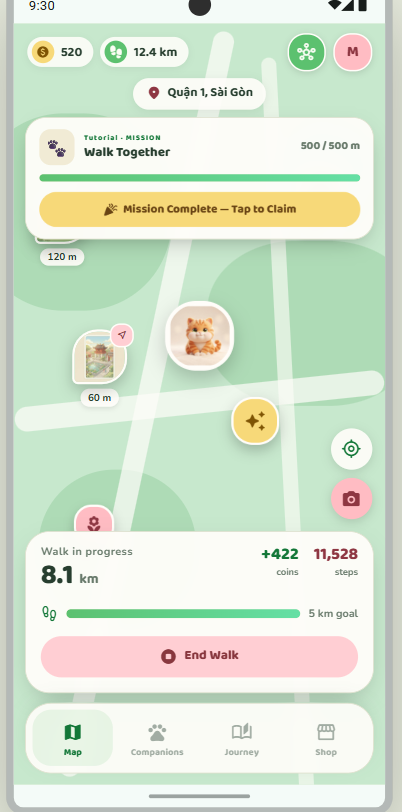
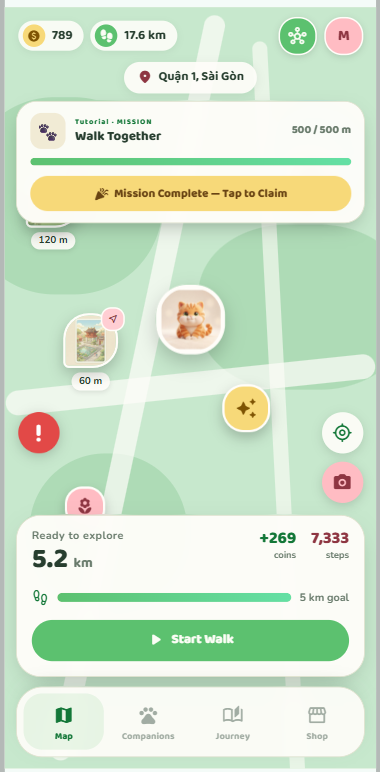
fix: session-only walk metrics, mission claim toast, editable account name, onboarding keyboard inset
- Walk control card now always starts idle at 0.0 km / +0 coins / 0 steps
  instead of showing today's saved activity, since it is a per-session HUD.
- Mission claims route through one handler that shows "Reward claimed · {reward}"
  and immediately re-renders the next mission.
- Account name field is read-only by default; a pencil button enables and
  focuses it, a checkmark validates/trims/saves and locks it again, and
  unsaved edits are discarded if the panel is closed first. Renaming updates
  the header's profile initial immediately.
- Tutorial walk mission lowered from 0.5 km to 0.1 km (100 m) to match its
  description and reward.
- Real-WebView and illustrated-map headers now share the same 44px
  horizontal / 24px top inset as other content screens, while preserving
  the WebView's derived margin calculation and the 30px floating-card/
  bottom-nav margins.
- Onboarding "Display name" label is vertically centered against its input,
  and the visible on-screen keyboard now contributes an extra bottom
  safe-area inset (via TouchScreenKeyboard.area.height) so the sheet, field,
  and Continue button stay above it.
- Widened two PlayMode pixel-tolerance assertions (0.1px -> 1px) that were
  flaky under the runtime panel's ScaleWithScreenSize sub-pixel rounding.

Verified: 42/42 EditMode, 35/35 PlayMode.

Claude-Session: https://claude.ai/code/session_01CA94ztJmFM1rAVeTDauNVp

diff --git a/Assets/_Project/Scripts/UI/Comprehensive/HomeUiController.cs b/Assets/_Project/Scripts/UI/Comprehensive/HomeUiController.cs
@@ -42,6 +42,9 @@ namespace ARWalking.UI
         int _featuredCompanionIndex;
         string _pendingDisplayName = string.Empty;
         bool _accountResetConfirming;
+        bool _accountNameEditing;
+        string _pendingAccountDisplayName = string.Empty;
+        float _lastKeyboardInsetPixels;
         int _viewerPhotoIndex;
         ActivityPeriod _activityPeriod;
         int _activityOffset;
@@ -84,6 +87,12 @@ namespace ARWalking.UI
         {
             var screenSize = new Vector2Int(Screen.width, Screen.height);
             if (Screen.safeArea != _lastSafeArea || screenSize != _lastScreenSize) ApplySafeArea();
+            var keyboardInsetPixels = CurrentKeyboardInsetPixels();
+            if (!Mathf.Approximately(keyboardInsetPixels, _lastKeyboardInsetPixels))
+            {
+                _lastKeyboardInsetPixels = keyboardInsetPixels;
+                ApplySafeArea();
+            }
             if (Keyboard.current != null && Keyboard.current.escapeKey.wasPressedThisFrame) HandleBack();
             if (IsMapRoute() && _runtime.MapView != null && _runtime.MapView.IsAvailable)
                 RenderRealMapMarkers();
@@ -123,7 +132,15 @@ namespace ARWalking.UI
         /// <summary>Opens the Shop's Pet Detail modal for a companion index (test/entry-point hook).</summary>
         public void ShowPetDetail(int index) => ShowPetDetailModal(index);
         /// <summary>Claims the Map's current Mission Card reward, if any is claimable (test/entry-point hook).</summary>
-        public bool ClaimCurrentMission() { var claimed = _runtime.ClaimCurrentMission(); if (claimed) Render(); return claimed; }
+        public bool ClaimCurrentMission()
+        {
+            var mission = _runtime.CurrentMission();
+            var claimed = _runtime.ClaimCurrentMission();
+            if (!claimed) return false;
+            Render();
+            ShowToast(string.IsNullOrEmpty(mission?.rewardLabel) ? "Mission reward claimed!" : "Reward claimed · " + mission.rewardLabel);
+            return true;
+        }
         /// <summary>Switches the Activity Dashboard's Week/Month/Year tab (test/entry-point hook) - mirrors tapping a period tab, resetting to the current period's offset.</summary>
         public void SetActivityPeriod(ActivityPeriod period) { _activityPeriod = period; _activityOffset = 0; Render(); }
 
@@ -391,12 +408,9 @@ namespace ARWalking.UI
         {
             var walking = _runtime.WalkProvider.IsWalking;
             var weekly = _runtime.GetWeeklyActivity();
-            var metrics = walking ? _runtime.WalkProvider.GetLiveMetrics() : new WalkMetrics
-            {
-                distanceKilometres = weekly.todayDistanceKilometres,
-                hasSteps = weekly.todayHasSteps,
-                steps = weekly.todaySteps
-            };
+            // This card is a session HUD. Daily/lifetime activity belongs in the top status bar and
+            // Activity Dashboard, so an idle card must always start from a clean zero state.
+            var metrics = walking ? _runtime.WalkProvider.GetLiveMetrics() : new WalkMetrics { hasSteps = true };
             var card = Card("walk-control-card", "floating-surface", "elevated-card");
             var top = Row("walk-summary-row");
             var main = Column("walk-main-metric");
@@ -478,7 +492,7 @@ namespace ARWalking.UI
                     () => ShowLandmarkSheet(mission.landmarkId), "primary-action", "mission-claim-button"));
             else
                 card.Add(ActionWithIcon("sparkles", null, "Mission Complete — Tap to Claim",
-                    () => { if (_runtime.ClaimCurrentMission()) Render(); }, "mission-claim-button", "icon-action-button"));
+                    () => ClaimCurrentMission(), "mission-claim-button", "icon-action-button"));
             return card;
         }
 
@@ -1226,6 +1240,8 @@ namespace ARWalking.UI
         void ShowAccountPanel()
         {
             _accountResetConfirming = false;
+            _accountNameEditing = false;
+            _pendingAccountDisplayName = _runtime.SaveData.displayName;
             RenderAccountPanel();
         }
 
@@ -1239,16 +1255,18 @@ namespace ARWalking.UI
             avatar.Add(Label(initial, "account-avatar-initial"));
             modal.Add(avatar);
 
-            var nameField = new UiTextField { value = _runtime.SaveData.displayName, maxLength = 20 };
+            var nameRow = Row("account-name-row");
+            var nameField = new UiTextField { name = "account-name-field", value = _pendingAccountDisplayName, maxLength = 20, isReadOnly = !_accountNameEditing };
             nameField.AddToClassList("account-name-field");
-            nameField.RegisterValueChangedCallback(evt =>
-            {
-                var normalized = PlayerSaveData.NormalizeDisplayName(evt.newValue);
-                if (!PlayerSaveData.IsValidDisplayName(normalized)) return;
-                _runtime.SaveData.displayName = normalized;
-                _runtime.Persist();
-            });
-            modal.Add(nameField);
+            if (!_accountNameEditing) nameField.AddToClassList("account-name-field-readonly");
+            nameField.RegisterValueChangedCallback(evt => { if (_accountNameEditing) _pendingAccountDisplayName = evt.newValue; });
+            nameRow.Add(nameField);
+            nameRow.Add(IconAction(_accountNameEditing ? "check" : "pencil", null, _accountNameEditing ? "SAVE" : "EDIT",
+                _accountNameEditing ? (Action)CommitAccountNameEdit : BeginAccountNameEdit,
+                "account-name-edit-button", "small-round-control", _accountNameEditing ? "account-name-save-button" : "account-name-pencil-button",
+                _accountNameEditing ? "dark-round-control" : null));
+            modal.Add(nameRow);
+            if (_accountNameEditing) nameField.schedule.Execute(nameField.Focus).StartingIn(1);
             modal.Add(Divider());
 
             if (!_accountResetConfirming)
@@ -1263,6 +1281,31 @@ namespace ARWalking.UI
                 confirmRow.Add(Action("Reset", () => { RemoveTransientOverlay(); ConfirmResetLocalProgress(); }, "danger-action", "half-action"));
                 modal.Add(confirmRow);
             }
+        }
+
+        void BeginAccountNameEdit()
+        {
+            _accountNameEditing = true;
+            _pendingAccountDisplayName = _runtime.SaveData.displayName;
+            RenderAccountPanel();
+        }
+
+        void CommitAccountNameEdit()
+        {
+            var normalized = PlayerSaveData.NormalizeDisplayName(_pendingAccountDisplayName);
+            if (!PlayerSaveData.IsValidDisplayName(normalized))
+            {
+                ShowToast("Enter 1 to 20 characters.");
+                return;
+            }
+
+            _runtime.SaveData.displayName = normalized;
+            _runtime.Persist();
+            _pendingAccountDisplayName = normalized;
+            _accountNameEditing = false;
+            var profileInitial = _safeRoot.Q<Label>(className: "profile-initial");
+            if (profileInitial != null) profileInitial.text = normalized.Substring(0, 1).ToUpperInvariant();
+            RenderAccountPanel();
         }
 
 
@@ -1702,9 +1745,16 @@ namespace ARWalking.UI
             _safeRoot.style.paddingLeft = safe.xMin * scale;
             _safeRoot.style.paddingRight = (Screen.width - safe.xMax) * scale;
             _safeRoot.style.paddingTop = (Screen.height - safe.yMax) * scale;
-            _safeRoot.style.paddingBottom = safe.yMin * scale;
+            _safeRoot.style.paddingBottom = Mathf.Max(safe.yMin, _lastKeyboardInsetPixels) * scale;
             _lastSafeArea = safe;
             _lastScreenSize = new Vector2Int(Screen.width, Screen.height);
+        }
+
+        float CurrentKeyboardInsetPixels()
+        {
+            if (_runtime == null || _runtime.Navigator.CurrentRoute != UiRoute.OnboardingSetup || _setupStep != 1 || !TouchScreenKeyboard.visible)
+                return 0f;
+            return Mathf.Max(0f, TouchScreenKeyboard.area.height);
         }
 
         sealed class ActivityRing : VisualElement

diff --git a/Assets/_Project/Tests/PlayMode/UiPrototypePlayModeTests.cs b/Assets/_Project/Tests/PlayMode/UiPrototypePlayModeTests.cs
@@ -196,6 +196,64 @@ namespace ARWalking.Tests.PlayMode
         }
 
         [UnityTest]
+        public IEnumerator MissionClaimShowsRewardToastAndAdvancesToTheNextMission()
+        {
+            var home = CreateProfile();
+            UiPrototypeRuntime.Instance.SaveData.totalDistanceKilometres = 0.1f;
+            home.SelectRoot(UiRootTab.Companions);
+            home.SelectRoot(UiRootTab.Map);
+            yield return null;
+
+            Assert.That(home.ClaimCurrentMission(), Is.True);
+            yield return null;
+
+            var root = home.GetComponent<UIDocument>().rootVisualElement;
+            Assert.That(UiPrototypeRuntime.Instance.SaveData.coins, Is.EqualTo(5));
+            Assert.That(root.Q<Label>(className: "toast")?.text, Is.EqualTo("Reward claimed · 5 coins"));
+            Assert.That(root.Q<Label>(className: "mission-title")?.text, Is.EqualTo("A Snack for Your Friend"));
+        }
+
+        [UnityTest]
+        public IEnumerator AccountNameIsReadOnlyUntilPencilThenCheckmarkPersistsIt()
+        {
+            var home = CreateProfile();
+            home.ShowAccount();
+            yield return null;
+
+            var root = home.GetComponent<UIDocument>().rootVisualElement;
+            var field = root.Q<TextField>("account-name-field");
+            Assert.That(field, Is.Not.Null);
+            Assert.That(field.isReadOnly, Is.True);
+            var pencil = root.Q<Button>("account-name-edit-button");
+            Assert.That(pencil, Is.Not.Null);
+            Assert.That(pencil.ClassListContains("account-name-pencil-button"), Is.True);
+            Assert.That(pencil.Q<UnityEngine.UIElements.Image>("icon-image")?.vectorImage, Is.Not.Null);
+
+            InvokePrivate(home, "BeginAccountNameEdit");
+            yield return null;
+            field = root.Q<TextField>("account-name-field");
+            Assert.That(field.isReadOnly, Is.False);
+            field.value = "  New Walker  ";
+            var save = root.Q<Button>("account-name-edit-button");
+            Assert.That(save.ClassListContains("account-name-save-button"), Is.True);
+            InvokePrivate(home, "CommitAccountNameEdit");
+            yield return null;
+
+            Assert.That(UiPrototypeRuntime.Instance.SaveData.displayName, Is.EqualTo("New Walker"));
+            Assert.That(root.Q<TextField>("account-name-field").isReadOnly, Is.True);
+            Assert.That(root.Q<Label>(className: "profile-initial")?.text, Is.EqualTo("N"));
+
+            // Unchecked text is only a draft and must be discarded when the panel closes.
+            InvokePrivate(home, "BeginAccountNameEdit");
+            yield return null;
+            root.Q<TextField>("account-name-field").value = "Discard Me";
+            home.CloseFloatingOverlay();
+            home.ShowAccount();
+            yield return null;
+            Assert.That(root.Q<TextField>("account-name-field").value, Is.EqualTo("New Walker"));
+        }
+
+        [UnityTest]
         public IEnumerator V0ScreenAnatomyIsPresentAcrossEveryPrimaryRoute()
         {
             var home = CreateProfile();
@@ -204,6 +262,9 @@ namespace ARWalking.Tests.PlayMode
             home.SelectRoot(UiRootTab.Map);
             yield return null;
             Assert.That(root.Q(className: "map-viewport"), Is.Not.Null);
+            // Within(1f) - the runtime panel's ScaleWithScreenSize mode can snap sub-pixel layout values
+            // to the device-pixel grid, so an exact 0.1px tolerance is flaky across test-runner window sizes.
+            Assert.That(root.Q(className: "map-top-status-bar").resolvedStyle.left, Is.EqualTo(44f).Within(1f));
             Assert.That(root.Q(className: "walk-control-card"), Is.Not.Null);
             Assert.That(root.Q(className: "bottom-nav"), Is.Not.Null);
 
@@ -483,6 +544,13 @@ namespace ARWalking.Tests.PlayMode
             Assert.That(home, Is.Not.Null);
             Assert.That(home.CompleteSetup("Test Walker"), Is.True);
             return home;
+        }
+
+        static void InvokePrivate(HomeUiController home, string methodName)
+        {
+            var method = typeof(HomeUiController).GetMethod(methodName, System.Reflection.BindingFlags.Instance | System.Reflection.BindingFlags.NonPublic);
+            Assert.That(method, Is.Not.Null);
+            method.Invoke(home, null);
         }
 
         static IEnumerator WaitForScene(string sceneName)

diff --git a/Assets/_Project/Tests/PlayMode/WalkControlCardLiveUpdatePlayModeTests.cs b/Assets/_Project/Tests/PlayMode/WalkControlCardLiveUpdatePlayModeTests.cs
@@ -97,6 +97,59 @@ namespace ARWalking.Tests.PlayMode
             Assert.That(stepsLabel.text, Is.EqualTo("1,650"));
         }
 
+        [UnityTest]
+        public IEnumerator SessionMetrics_StartAtZero_CommitToLifetimeTotals_ThenReset()
+        {
+            var home = UnityEngine.Object.FindFirstObjectByType<HomeUiController>();
+            Assert.That(home.CompleteSetup("Session Totals Test"), Is.True);
+            var save = UiPrototypeRuntime.Instance.SaveData;
+            save.coins = 100;
+            save.totalDistanceKilometres = 2f;
+            save.hasTotalSteps = true;
+            save.totalSteps = 1000;
+            save.dailyActivity.Add(new DailyActivityData
+            {
+                dateIso = CompanionProgressionService.LocalNow(DateTime.UtcNow).ToString("yyyy-MM-dd"),
+                distanceKilometres = 2f,
+                hasSteps = true,
+                steps = 1000
+            });
+
+            // Force the Map to rebuild after seeding non-zero lifetime and daily values.
+            home.SelectRoot(UiRootTab.Companions);
+            home.SelectRoot(UiRootTab.Map);
+            yield return null;
+
+            var root = home.GetComponent<UIDocument>().rootVisualElement;
+            Assert.That(root.Q(className: "coin-status-pill").Q<Label>(className: "status-value").text, Is.EqualTo("100"));
+            Assert.That(root.Q(className: "distance-status-pill").Q<Label>(className: "status-value").text, Is.EqualTo("2.0 km"));
+            AssertSessionMetrics(root, "0.0", "+0", "0");
+
+            home.BeginWalk();
+            _walkProvider.Live = new WalkMetrics { distanceKilometres = 0.1f, hasSteps = true, steps = 42, elapsedSeconds = 60f };
+            yield return null;
+            AssertSessionMetrics(root, "0.1", "+4", "42");
+
+            var result = home.FinishWalk();
+            Assert.That(result.coinsAwarded, Is.EqualTo(4));
+            Assert.That(save.coins, Is.EqualTo(104));
+            Assert.That(save.totalDistanceKilometres, Is.EqualTo(2.1f).Within(0.0001f));
+            Assert.That(save.totalSteps, Is.EqualTo(1042));
+
+            home.SelectRoot(UiRootTab.Map);
+            yield return null;
+            Assert.That(root.Q(className: "coin-status-pill").Q<Label>(className: "status-value").text, Is.EqualTo("104"));
+            Assert.That(root.Q(className: "distance-status-pill").Q<Label>(className: "status-value").text, Is.EqualTo("2.1 km"));
+            AssertSessionMetrics(root, "0.0", "+0", "0");
+        }
+
+        static void AssertSessionMetrics(VisualElement root, string distance, string coins, string steps)
+        {
+            Assert.That(root.Q<Label>(className: "walk-distance-value").text, Is.EqualTo(distance));
+            Assert.That(root.Q(className: "walk-summary-row").Q(className: "sun-value").Q<Label>(className: "metric-value").text, Is.EqualTo(coins));
+            Assert.That(root.Q(className: "walk-summary-row").Q(className: "blossom-value").Q<Label>(className: "metric-value").text, Is.EqualTo(steps));
+        }
+
         static IEnumerator WaitForScene(string sceneName)
         {
             var deadline = Time.realtimeSinceStartup + 15f;

diff --git a/Assets/_Project/Scripts/Services/MissionService.cs b/Assets/_Project/Scripts/Services/MissionService.cs
@@ -17,7 +17,7 @@ namespace ARWalking.UI
         /// onboarding, before any mission card could show it.</summary>
         static readonly MissionDefinition[] Tutorial =
         {
-            new MissionDefinition { id = "tutorial-walk", type = MissionType.Tutorial, iconKey = "🚶", title = "Walk Together", description = "Walk 500m with your companion.", targetValue = 0.5f, rewardCoins = 5 },
+            new MissionDefinition { id = "tutorial-walk", type = MissionType.Tutorial, iconKey = "🚶", title = "Walk Together", description = "Walk 100m with your companion.", targetValue = 0.1f, rewardCoins = 5 },
             new MissionDefinition { id = "tutorial-shop", type = MissionType.Tutorial, iconKey = "🍙", title = "A Snack for Your Friend", description = "Buy a food item from the Shop.", targetValue = 1f },
             new MissionDefinition { id = "tutorial-feed", type = MissionType.Tutorial, iconKey = "🍙", title = "Snack Time", description = "Feed your companion.", targetValue = 1f, rewardFoodId = "rice-ball", rewardFoodQuantity = 1 },
             new MissionDefinition { id = "tutorial-grow", type = MissionType.Tutorial, iconKey = "🌱", title = "Grow Together", description = "Feed your companion until it becomes Young.", targetValue = 1f, rewardCoins = 50 },

diff --git a/Assets/_Project/Tests/EditMode/UiPrototypeEditModeTests.cs b/Assets/_Project/Tests/EditMode/UiPrototypeEditModeTests.cs
@@ -375,6 +375,24 @@ namespace ARWalking.Tests.EditMode
         }
 
         [Test]
+        public void FirstTutorialWalkMissionCompletesAtExactlyOneHundredMetres()
+        {
+            var save = PlayerSaveData.CreateNew("Mission Test");
+            var catalog = Resources.Load<PrototypeUiCatalog>("UI/PrototypeUiCatalog");
+            var missions = new MissionService(save, new StaticUiDataProvider(catalog), new DeterministicLandmarkMapProvider());
+
+            save.totalDistanceKilometres = 0.099f;
+            var active = missions.CurrentMission();
+            Assert.That(active.missionId, Is.EqualTo("tutorial-walk"));
+            Assert.That(active.targetValue, Is.EqualTo(0.1f));
+            Assert.That(active.description, Is.EqualTo("Walk 100m with your companion."));
+            Assert.That(active.status, Is.EqualTo(MissionStatus.Active));
+
+            save.totalDistanceKilometres = 0.1f;
+            Assert.That(missions.CurrentMission().status, Is.EqualTo(MissionStatus.Completed));
+        }
+
+        [Test]
         public void RegeneratedCatalogAndTemporaryArtworkBindingsAreValid()
         {
             var catalog = Resources.Load<PrototypeUiCatalog>("UI/PrototypeUiCatalog");

diff --git a/Assets/_Project/Tests/PlayMode/WebViewMapDockingPlayModeTests.cs b/Assets/_Project/Tests/PlayMode/WebViewMapDockingPlayModeTests.cs
@@ -81,7 +81,13 @@ namespace ARWalking.Tests.PlayMode
             yield return null; yield return null; yield return null;
 
             var root = home.GetComponent<UIDocument>().rootVisualElement;
-            Assert.That(root.Q(className: "map-top-bar"), Is.Not.Null);
+            var topBar = root.Q(className: "map-top-bar");
+            Assert.That(topBar, Is.Not.Null);
+            // Within(1f) - the runtime panel's ScaleWithScreenSize mode can snap sub-pixel layout values
+            // to the device-pixel grid, so an exact 0.1px tolerance is flaky across test-runner window sizes.
+            Assert.That(topBar.resolvedStyle.marginLeft, Is.EqualTo(44f).Within(1f));
+            Assert.That(topBar.resolvedStyle.marginRight, Is.EqualTo(44f).Within(1f));
+            Assert.That(topBar.resolvedStyle.marginTop, Is.EqualTo(24f).Within(1f));
             Assert.That(root.Q(className: "map-bottom-bar"), Is.Not.Null);
             Assert.That(root.Q(className: "map-top-overlay"), Is.Null, "the old floating overlay must not be built when the webview map is available");
         }
